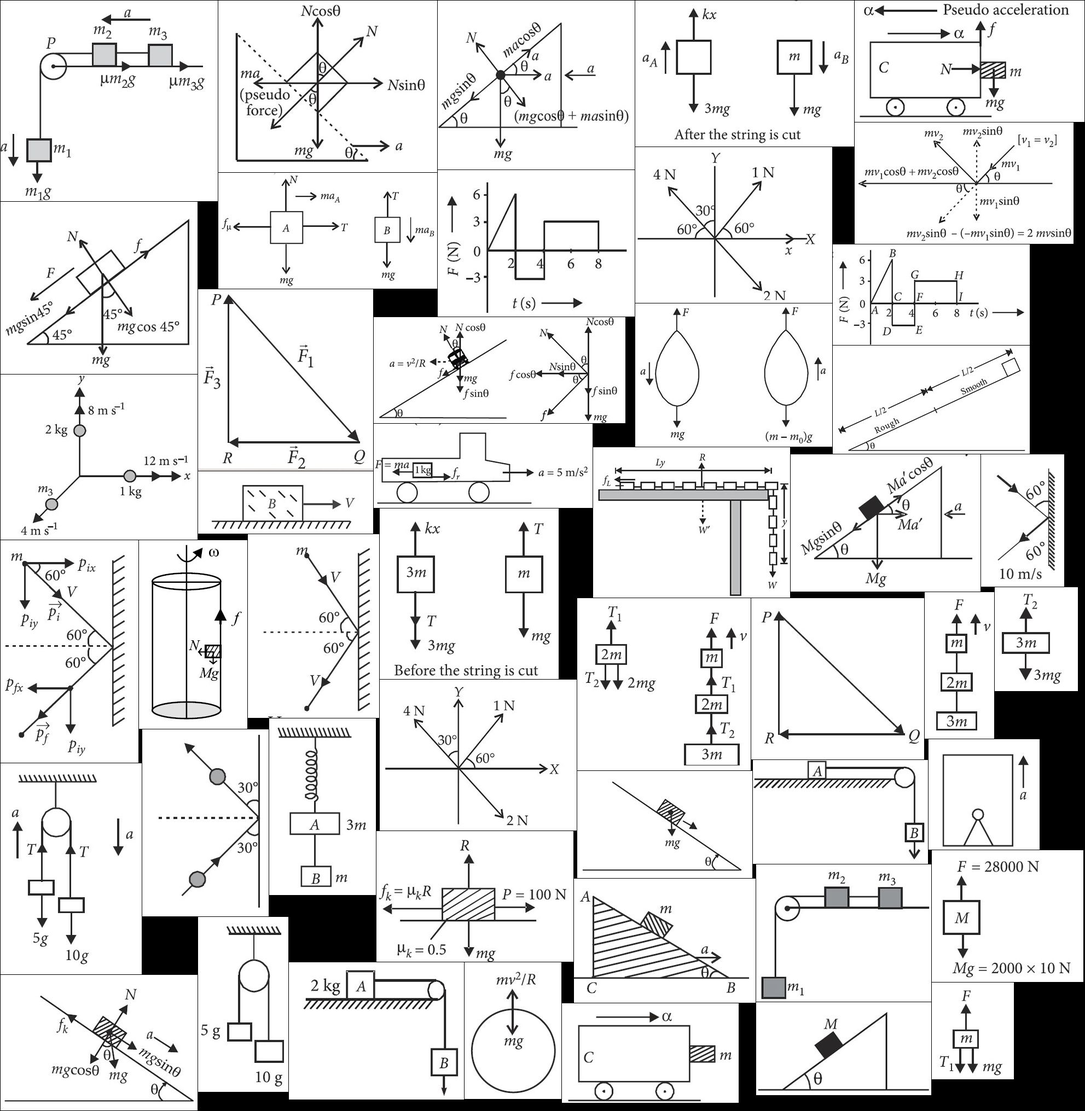
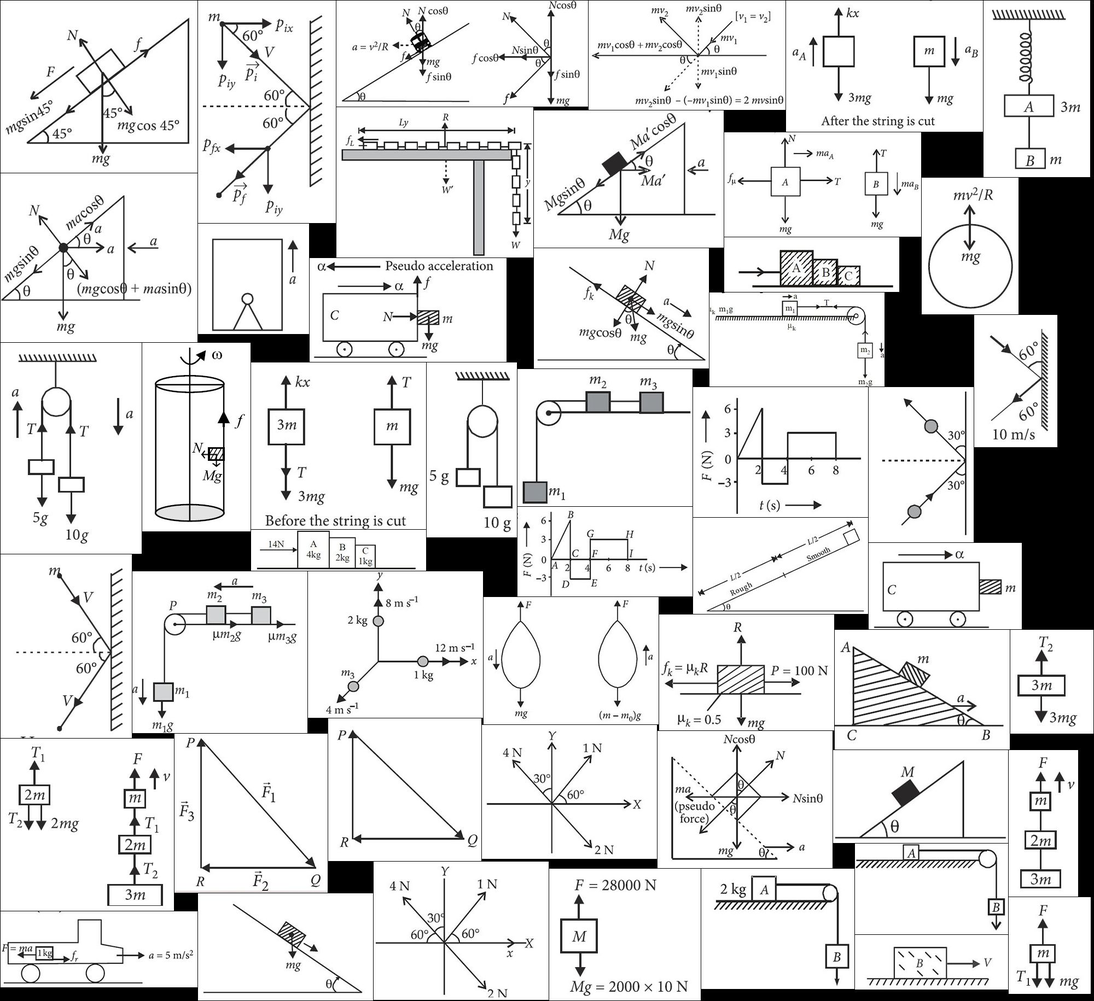
Added images.

Changed region(s): [[0.0, 0.0, 1.0, 1.0], [0.5537, 0.6849, 0.5845, 0.716]]

diff --git a/img/medical/neet/phchap/physics_ch_4.css b/img/medical/neet/phchap/physics_ch_4.css
@@ -7,146 +7,155 @@ Responsive: <div class="yourspritesname"></div>
 */
 
 
+.nt_ph_laws_motion_10 {max-width:320px; max-height:100px; }
+.nt_ph_laws_motion_10::after {content: '\00a0';display: inline-block; width:320px; height:100px; background-position: 78.80952380952381% 25.072212593876372%;background-size: 625% 1831%;background-image: url(physics_ch_4.jpg);padding: 0; }
+div.nt_ph_laws_motion_10::after {max-width:320px; width:100%;height:0;padding: 0 0 31.25% 0;}
+.nt_ph_laws_motion_10_sol {max-width:320px; max-height:75px; }
+.nt_ph_laws_motion_10_sol::after {content: '\00a0';display: inline-block; width:320px; height:75px; background-position: 27.321428571428573% 55.182232346241456%;background-size: 625% 2441.3333333333335%;background-image: url(physics_ch_4.jpg);padding: 0; }
+div.nt_ph_laws_motion_10_sol::after {max-width:320px; width:100%;height:0;padding: 0 0 23.4375% 0;}
 .nt_ph_laws_motion_11 {max-width:320px; max-height:196px; }
-.nt_ph_laws_motion_11::after {content: '\00a0';display: inline-block; width:320px; height:196px; background-position: 63.43956704750451% 76.79738562091504%;background-size: 619.6875% 1036.734693877551%;background-image: url(physics_ch_4.jpg);padding: 0; }
+.nt_ph_laws_motion_11::after {content: '\00a0';display: inline-block; width:320px; height:196px; background-position: 21.547619047619047% 99.93883792048929%;background-size: 625% 934.1836734693877%;background-image: url(physics_ch_4.jpg);padding: 0; }
 div.nt_ph_laws_motion_11::after {max-width:320px; width:100%;height:0;padding: 0 0 61.25% 0;}
-.nt_ph_laws_motion_11_sol {max-width:360px; max-height:248px; }
-.nt_ph_laws_motion_11_sol::after {content: '\00a0';display: inline-block; width:360px; height:248px; background-position: 0.061614294516327786% 99.9439461883408%;background-size: 550.8333333333334% 819.3548387096774%;background-image: url(physics_ch_4.jpg);padding: 0; }
-div.nt_ph_laws_motion_11_sol::after {max-width:360px; width:100%;height:0;padding: 0 0 68.88888888888889% 0;}
+.nt_ph_laws_motion_11_sol {max-width:320px; max-height:220px; }
+.nt_ph_laws_motion_11_sol::after {content: '\00a0';display: inline-block; width:320px; height:220px; background-position: 58.095238095238095% 28.181253879577902%;background-size: 625% 832.2727272727273%;background-image: url(physics_ch_4.jpg);padding: 0; }
+div.nt_ph_laws_motion_11_sol::after {max-width:320px; width:100%;height:0;padding: 0 0 68.75% 0;}
+.nt_ph_laws_motion_12_sol {max-width:320px; max-height:172px; }
+.nt_ph_laws_motion_12_sol::after {content: '\00a0';display: inline-block; width:320px; height:172px; background-position: 77.20238095238095% 32.248342374924654%;background-size: 625% 1064.5348837209303%;background-image: url(physics_ch_4.jpg);padding: 0; }
+div.nt_ph_laws_motion_12_sol::after {max-width:320px; width:100%;height:0;padding: 0 0 53.75% 0;}
 .nt_ph_laws_motion_13 {max-width:320px; max-height:251px; }
-.nt_ph_laws_motion_13::after {content: '\00a0';display: inline-block; width:320px; height:251px; background-position: 83.1028262176789% 88.77035373385738%;background-size: 619.6875% 809.5617529880478%;background-image: url(physics_ch_4.jpg);padding: 0; }
+.nt_ph_laws_motion_13::after {content: '\00a0';display: inline-block; width:320px; height:251px; background-position: 56.30952380952381% 42.721518987341774%;background-size: 625% 729.4820717131474%;background-image: url(physics_ch_4.jpg);padding: 0; }
 div.nt_ph_laws_motion_13::after {max-width:320px; width:100%;height:0;padding: 0 0 78.4375% 0;}
-.nt_ph_laws_motion_13_sol {max-width:397px; max-height:367px; }
-.nt_ph_laws_motion_13_sol::after {content: '\00a0';display: inline-block; width:397px; height:367px; background-position: 0.06305170239596469% 0.06006006006006006%;background-size: 499.4962216624685% 553.6784741144414%;background-image: url(physics_ch_4.jpg);padding: 0; }
-div.nt_ph_laws_motion_13_sol::after {max-width:397px; width:100%;height:0;padding: 0 0 92.44332493702771% 0;}
-.nt_ph_laws_motion_14 {max-width:360px; max-height:268px; }
-.nt_ph_laws_motion_14::after {content: '\00a0';display: inline-block; width:360px; height:268px; background-position: 49.291435613062234% 17.630385487528343%;background-size: 550.8333333333334% 758.2089552238806%;background-image: url(physics_ch_4.jpg);padding: 0; }
-div.nt_ph_laws_motion_14::after {max-width:360px; width:100%;height:0;padding: 0 0 74.44444444444444% 0;}
-.nt_ph_laws_motion_14_sol {max-width:360px; max-height:184px; }
-.nt_ph_laws_motion_14_sol::after {content: '\00a0';display: inline-block; width:360px; height:184px; background-position: 93.7769562538509% 24.18831168831169%;background-size: 550.8333333333334% 1104.3478260869565%;background-image: url(physics_ch_4.jpg);padding: 0; }
-div.nt_ph_laws_motion_14_sol::after {max-width:360px; width:100%;height:0;padding: 0 0 51.111111111111114% 0;}
-.nt_ph_laws_motion_15_sol {max-width:360px; max-height:262px; }
-.nt_ph_laws_motion_15_sol::after {content: '\00a0';display: inline-block; width:360px; height:262px; background-position: 71.53419593345656% 31.35593220338983%;background-size: 550.8333333333334% 775.5725190839695%;background-image: url(physics_ch_4.jpg);padding: 0; }
-div.nt_ph_laws_motion_15_sol::after {max-width:360px; width:100%;height:0;padding: 0 0 72.77777777777777% 0;}
+.nt_ph_laws_motion_13_sol {max-width:320px; max-height:296px; }
+.nt_ph_laws_motion_13_sol::after {content: '\00a0';display: inline-block; width:320px; height:296px; background-position: 14.404761904761905% 68.07817589576547%;background-size: 625% 618.581081081081%;background-image: url(physics_ch_4.jpg);padding: 0; }
+div.nt_ph_laws_motion_13_sol::after {max-width:320px; width:100%;height:0;padding: 0 0 92.5% 0;}
+.nt_ph_laws_motion_14 {max-width:320px; max-height:238px; }
+.nt_ph_laws_motion_14::after {content: '\00a0';display: inline-block; width:320px; height:238px; background-position: 75.41666666666667% 44.44444444444444%;background-size: 625% 769.3277310924369%;background-image: url(physics_ch_4.jpg);padding: 0; }
+div.nt_ph_laws_motion_14::after {max-width:320px; width:100%;height:0;padding: 0 0 74.375% 0;}
+.nt_ph_laws_motion_14_sol {max-width:320px; max-height:164px; }
+.nt_ph_laws_motion_14_sol::after {content: '\00a0';display: inline-block; width:320px; height:164px; background-position: 56.30952380952381% 55.60887822435513%;background-size: 625% 1116.4634146341464%;background-image: url(physics_ch_4.jpg);padding: 0; }
+div.nt_ph_laws_motion_14_sol::after {max-width:320px; width:100%;height:0;padding: 0 0 51.25% 0;}
+.nt_ph_laws_motion_15_sol {max-width:320px; max-height:233px; }
+.nt_ph_laws_motion_15_sol::after {content: '\00a0';display: inline-block; width:320px; height:233px; background-position: 52.61904761904762% 68.33541927409262%;background-size: 625% 785.8369098712446%;background-image: url(physics_ch_4.jpg);padding: 0; }
+div.nt_ph_laws_motion_15_sol::after {max-width:320px; width:100%;height:0;padding: 0 0 72.8125% 0;}
 .nt_ph_laws_motion_16 {max-width:127px; max-height:268px; }
-.nt_ph_laws_motion_16::after {content: '\00a0';display: inline-block; width:127px; height:268px; background-position: 91.05603448275862% 61.394557823129254%;background-size: 1561.4173228346456% 758.2089552238806%;background-image: url(physics_ch_4.jpg);padding: 0; }
+.nt_ph_laws_motion_16::after {content: '\00a0';display: inline-block; width:127px; height:268px; background-position: 98.45168179391351% 87.77991042866283%;background-size: 1574.8031496062993% 683.2089552238806%;background-image: url(physics_ch_4.jpg);padding: 0; }
 div.nt_ph_laws_motion_16::after {max-width:127px; width:100%;height:0;padding: 0 0 211.0236220472441% 0;}
 .nt_ph_laws_motion_16_sol {max-width:150px; max-height:177px; }
-.nt_ph_laws_motion_16_sol::after {content: '\00a0';display: inline-block; width:150px; height:177px; background-position: 92.90780141843972% 96.8733153638814%;background-size: 1322% 1148.0225988700565%;background-image: url(physics_ch_4.jpg);padding: 0; }
+.nt_ph_laws_motion_16_sol::after {content: '\00a0';display: inline-block; width:150px; height:177px; background-position: 99.67567567567568% 99.21402660217655%;background-size: 1333.3333333333333% 1034.4632768361582%;background-image: url(physics_ch_4.jpg);padding: 0; }
 div.nt_ph_laws_motion_16_sol::after {max-width:150px; width:100%;height:0;padding: 0 0 118% 0;}
 .nt_ph_laws_motion_16_sol_b {max-width:317px; max-height:315px; }
-.nt_ph_laws_motion_16_sol_b::after {content: '\00a0';display: inline-block; width:317px; height:315px; background-position: 63.32533013205282% 63.71578334304019%;background-size: 625.5520504731861% 645.0793650793651%;background-image: url(physics_ch_4.jpg);padding: 0; }
+.nt_ph_laws_motion_16_sol_b::after {content: '\00a0';display: inline-block; width:317px; height:315px; background-position: 0.059417706476530004% 89.11609498680738%;background-size: 630.9148264984227% 581.2698412698413%;background-image: url(physics_ch_4.jpg);padding: 0; }
 div.nt_ph_laws_motion_16_sol_b::after {max-width:317px; width:100%;height:0;padding: 0 0 99.36908517350157% 0;}
 .nt_ph_laws_motion_16_sol_c {max-width:152px; max-height:190px; }
-.nt_ph_laws_motion_16_sol_c::after {content: '\00a0';display: inline-block; width:152px; height:190px; background-position: 99.29000546149645% 58.306188925081436%;background-size: 1304.6052631578948% 1069.4736842105262%;background-image: url(physics_ch_4.jpg);padding: 0; }
+.nt_ph_laws_motion_16_sol_c::after {content: '\00a0';display: inline-block; width:152px; height:190px; background-position: 99.94588744588745% 70.20109689213893%;background-size: 1315.7894736842106% 963.6842105263158%;background-image: url(physics_ch_4.jpg);padding: 0; }
 div.nt_ph_laws_motion_16_sol_c::after {max-width:152px; width:100%;height:0;padding: 0 0 125% 0;}
-.nt_ph_laws_motion_17_sol_ {max-width:360px; max-height:302px; }
-.nt_ph_laws_motion_17_sol_::after {content: '\00a0';display: inline-block; width:360px; height:302px; background-position: 0.061614294516327786% 39.59537572254335%;background-size: 550.8333333333334% 672.8476821192053%;background-image: url(physics_ch_4.jpg);padding: 0; }
-div.nt_ph_laws_motion_17_sol_::after {max-width:360px; width:100%;height:0;padding: 0 0 83.88888888888889% 0;}
-.nt_ph_laws_motion_18_sol {max-width:360px; max-height:198px; }
-.nt_ph_laws_motion_18_sol::after {content: '\00a0';display: inline-block; width:360px; height:198px; background-position: 93.7769562538509% 34.46019629225736%;background-size: 550.8333333333334% 1026.2626262626263%;background-image: url(physics_ch_4.jpg);padding: 0; }
-div.nt_ph_laws_motion_18_sol::after {max-width:360px; width:100%;height:0;padding: 0 0 55% 0;}
+.nt_ph_laws_motion_17_sol_ {max-width:320px; max-height:268px; }
+.nt_ph_laws_motion_17_sol_::after {content: '\00a0';display: inline-block; width:320px; height:268px; background-position: 33.51190476190476% 66.85860524632118%;background-size: 625% 683.2089552238806%;background-image: url(physics_ch_4.jpg);padding: 0; }
+div.nt_ph_laws_motion_17_sol_::after {max-width:320px; width:100%;height:0;padding: 0 0 83.75% 0;}
+.nt_ph_laws_motion_18_sol {max-width:320px; max-height:176px; }
+.nt_ph_laws_motion_18_sol::after {content: '\00a0';display: inline-block; width:320px; height:176px; background-position: 75.41666666666667% 57.220543806646525%;background-size: 625% 1040.340909090909%;background-image: url(physics_ch_4.jpg);padding: 0; }
+div.nt_ph_laws_motion_18_sol::after {max-width:320px; width:100%;height:0;padding: 0 0 55% 0;}
 .nt_ph_laws_motion_1_sol {max-width:198px; max-height:345px; }
-.nt_ph_laws_motion_1_sol::after {content: '\00a0';display: inline-block; width:198px; height:345px; background-position: 14.2296918767507% 58.56550088915234%;background-size: 1001.5151515151515% 588.9855072463768%;background-image: url(physics_ch_4.jpg);padding: 0; }
+.nt_ph_laws_motion_1_sol::after {content: '\00a0';display: inline-block; width:198px; height:345px; background-position: 14.428412874583795% 42.193808882907135%;background-size: 1010.10101010101% 530.7246376811594%;background-image: url(physics_ch_4.jpg);padding: 0; }
 div.nt_ph_laws_motion_1_sol::after {max-width:198px; width:100%;height:0;padding: 0 0 174.24242424242425% 0;}
-.nt_ph_laws_motion_2 {max-width:316px; max-height:295px; }
-.nt_ph_laws_motion_2::after {content: '\00a0';display: inline-block; width:316px; height:295px; background-position: 82.36352729454109% 62.98215313759355%;background-size: 627.5316455696203% 688.8135593220339%;background-image: url(physics_ch_4.jpg);padding: 0; }
-div.nt_ph_laws_motion_2::after {max-width:316px; width:100%;height:0;padding: 0 0 93.35443037974683% 0;}
+.nt_ph_laws_motion_2 {max-width:280px; max-height:261px; }
+.nt_ph_laws_motion_2::after {content: '\00a0';display: inline-block; width:280px; height:261px; background-position: 34.883720930232556% 83.69426751592357%;background-size: 714.2857142857143% 701.5325670498084%;background-image: url(physics_ch_4.jpg);padding: 0; }
+div.nt_ph_laws_motion_2::after {max-width:280px; width:100%;height:0;padding: 0 0 93.21428571428571% 0;}
 .nt_ph_laws_motion_24_sol {max-width:203px; max-height:202px; }
-.nt_ph_laws_motion_24_sol::after {content: '\00a0';display: inline-block; width:203px; height:202px; background-position: 95.33707865168539% 73.87978142076503%;background-size: 976.8472906403941% 1005.940594059406%;background-image: url(physics_ch_4.jpg);padding: 0; }
+.nt_ph_laws_motion_24_sol::after {content: '\00a0';display: inline-block; width:203px; height:202px; background-position: 20.144685587089594% 25.10742786985881%;background-size: 985.2216748768473% 906.4356435643564%;background-image: url(physics_ch_4.jpg);padding: 0; }
 div.nt_ph_laws_motion_24_sol::after {max-width:203px; width:100%;height:0;padding: 0 0 99.50738916256158% 0;}
-.nt_ph_laws_motion_27 {max-width:323px; max-height:182px; }
-.nt_ph_laws_motion_27::after {content: '\00a0';display: inline-block; width:323px; height:182px; background-position: 61.86746987951807% 99.1891891891892%;background-size: 613.9318885448916% 1116.4835164835165%;background-image: url(physics_ch_4.jpg);padding: 0; }
-div.nt_ph_laws_motion_27::after {max-width:323px; width:100%;height:0;padding: 0 0 56.34674922600619% 0;}
-.nt_ph_laws_motion_27_sol {max-width:420px; max-height:222px; }
-.nt_ph_laws_motion_27_sol::after {content: '\00a0';display: inline-block; width:420px; height:222px; background-position: 99.9360204734485% 0.055248618784530384%;background-size: 472.14285714285717% 915.3153153153153%;background-image: url(physics_ch_4.jpg);padding: 0; }
-div.nt_ph_laws_motion_27_sol::after {max-width:420px; width:100%;height:0;padding: 0 0 52.857142857142854% 0;}
+.nt_ph_laws_motion_27 {max-width:280px; max-height:158px; }
+.nt_ph_laws_motion_27::after {content: '\00a0';display: inline-block; width:280px; height:158px; background-position: 92.32558139534883% 59.35445307830245%;background-size: 714.2857142857143% 1158.860759493671%;background-image: url(physics_ch_4.jpg);padding: 0; }
+div.nt_ph_laws_motion_27::after {max-width:280px; width:100%;height:0;padding: 0 0 56.42857142857143% 0;}
+.nt_ph_laws_motion_27_sol {max-width:360px; max-height:190px; }
+.nt_ph_laws_motion_27_sol::after {content: '\00a0';display: inline-block; width:360px; height:190px; background-position: 34.51219512195122% 28.762949421084706%;background-size: 555.5555555555555% 963.6842105263158%;background-image: url(physics_ch_4.jpg);padding: 0; }
+div.nt_ph_laws_motion_27_sol::after {max-width:360px; width:100%;height:0;padding: 0 0 52.77777777777778% 0;}
 .nt_ph_laws_motion_28_sol {max-width:277px; max-height:241px; }
-.nt_ph_laws_motion_28_sol::after {content: '\00a0';display: inline-block; width:277px; height:241px; background-position: 99.82415005861665% 86.82300390843105%;background-size: 715.884476534296% 843.1535269709543%;background-image: url(physics_ch_4.jpg);padding: 0; }
+.nt_ph_laws_motion_28_sol::after {content: '\00a0';display: inline-block; width:277px; height:241px; background-position: 58.270458502611724% 99.937106918239%;background-size: 722.0216606498195% 759.7510373443984%;background-image: url(physics_ch_4.jpg);padding: 0; }
 div.nt_ph_laws_motion_28_sol::after {max-width:277px; width:100%;height:0;padding: 0 0 87.00361010830325% 0;}
-.nt_ph_laws_motion_2_sol {max-width:320px; max-height:332px; }
-.nt_ph_laws_motion_2_sol::after {content: '\00a0';display: inline-block; width:320px; height:332px; background-position: 21.767889356584487% 31.11764705882353%;background-size: 619.6875% 612.0481927710844%;background-image: url(physics_ch_4.jpg);padding: 0; }
-div.nt_ph_laws_motion_2_sol::after {max-width:320px; width:100%;height:0;padding: 0 0 103.75% 0;}
+.nt_ph_laws_motion_2_sol {max-width:280px; max-height:291px; }
+.nt_ph_laws_motion_2_sol::after {content: '\00a0';display: inline-block; width:280px; height:291px; background-position: 18.546511627906977% 87.14285714285714%;background-size: 714.2857142857143% 629.2096219931271%;background-image: url(physics_ch_4.jpg);padding: 0; }
+div.nt_ph_laws_motion_2_sol::after {max-width:280px; width:100%;height:0;padding: 0 0 103.92857142857143% 0;}
 .nt_ph_laws_motion_30_sol {max-width:177px; max-height:250px; }
-.nt_ph_laws_motion_30_sol::after {content: '\00a0';display: inline-block; width:177px; height:250px; background-position: 47.009966777408636% 98.76543209876543%;background-size: 1120.3389830508474% 812.8%;background-image: url(physics_ch_4.jpg);padding: 0; }
+.nt_ph_laws_motion_30_sol::after {content: '\00a0';display: inline-block; width:177px; height:250px; background-position: 92.43006034009873% 20.55660974067046%;background-size: 1129.9435028248588% 732.4%;background-image: url(physics_ch_4.jpg);padding: 0; }
 div.nt_ph_laws_motion_30_sol::after {max-width:177px; width:100%;height:0;padding: 0 0 141.24293785310735% 0;}
-.nt_ph_laws_motion_31 {max-width:360px; max-height:276px; }
-.nt_ph_laws_motion_31::after {content: '\00a0';display: inline-block; width:360px; height:276px; background-position: 42.76032039433149% 70.78587699316628%;background-size: 550.8333333333334% 736.231884057971%;background-image: url(physics_ch_4.jpg);padding: 0; }
-div.nt_ph_laws_motion_31::after {max-width:360px; width:100%;height:0;padding: 0 0 76.66666666666667% 0;}
-.nt_ph_laws_motion_31_sol {max-width:360px; max-height:285px; }
-.nt_ph_laws_motion_31_sol::after {content: '\00a0';display: inline-block; width:360px; height:285px; background-position: 71.53419593345656% 15.397824842587292%;background-size: 550.8333333333334% 712.9824561403509%;background-image: url(physics_ch_4.jpg);padding: 0; }
-div.nt_ph_laws_motion_31_sol::after {max-width:360px; width:100%;height:0;padding: 0 0 79.16666666666667% 0;}
-.nt_ph_laws_motion_33 {max-width:320px; max-height:114px; }
-.nt_ph_laws_motion_33::after {content: '\00a0';display: inline-block; width:320px; height:114px; background-position: 21.767889356584487% 44.94264859228363%;background-size: 619.6875% 1782.4561403508771%;background-image: url(physics_ch_4.jpg);padding: 0; }
-div.nt_ph_laws_motion_33::after {max-width:320px; width:100%;height:0;padding: 0 0 35.625% 0;}
-.nt_ph_laws_motion_34_sol {max-width:231px; max-height:342px; }
-.nt_ph_laws_motion_34_sol::after {content: '\00a0';display: inline-block; width:231px; height:342px; background-position: 14.840182648401827% 78.93491124260355%;background-size: 858.4415584415584% 594.1520467836257%;background-image: url(physics_ch_4.jpg);padding: 0; }
-div.nt_ph_laws_motion_34_sol::after {max-width:231px; width:100%;height:0;padding: 0 0 148.05194805194805% 0;}
+.nt_ph_laws_motion_31 {max-width:320px; max-height:245px; }
+.nt_ph_laws_motion_31::after {content: '\00a0';display: inline-block; width:320px; height:245px; background-position: 52.44047619047619% 83.60655737704919%;background-size: 625% 747.3469387755102%;background-image: url(physics_ch_4.jpg);padding: 0; }
+div.nt_ph_laws_motion_31::after {max-width:320px; width:100%;height:0;padding: 0 0 76.5625% 0;}
+.nt_ph_laws_motion_31_sol {max-width:320px; max-height:253px; }
+.nt_ph_laws_motion_31_sol::after {content: '\00a0';display: inline-block; width:320px; height:253px; background-position: 40.654761904761905% 99.87325728770595%;background-size: 625% 723.7154150197629%;background-image: url(physics_ch_4.jpg);padding: 0; }
+div.nt_ph_laws_motion_31_sol::after {max-width:320px; width:100%;height:0;padding: 0 0 79.0625% 0;}
+.nt_ph_laws_motion_33 {max-width:280px; max-height:100px; }
+.nt_ph_laws_motion_33::after {content: '\00a0';display: inline-block; width:280px; height:100px; background-position: 90.87209302325581% 98.78682842287695%;background-size: 714.2857142857143% 1831%;background-image: url(physics_ch_4.jpg);padding: 0; }
+div.nt_ph_laws_motion_33::after {max-width:280px; width:100%;height:0;padding: 0 0 35.714285714285715% 0;}
+.nt_ph_laws_motion_34_sol {max-width:192px; max-height:284px; }
+.nt_ph_laws_motion_34_sol::after {content: '\00a0';display: inline-block; width:192px; height:284px; background-position: 87.83185840707965% 45.76599870717518%;background-size: 1041.6666666666667% 644.7183098591549%;background-image: url(physics_ch_4.jpg);padding: 0; }
+div.nt_ph_laws_motion_34_sol::after {max-width:192px; width:100%;height:0;padding: 0 0 147.91666666666666% 0;}
 .nt_ph_laws_motion_35_sol {max-width:360px; max-height:309px; }
-.nt_ph_laws_motion_35_sol::after {content: '\00a0';display: inline-block; width:360px; height:309px; background-position: 49.291435613062234% 0.05803830528148578%;background-size: 550.8333333333334% 657.6051779935275%;background-image: url(physics_ch_4.jpg);padding: 0; }
+.nt_ph_laws_motion_35_sol::after {content: '\00a0';display: inline-block; width:360px; height:309px; background-position: 0.06097560975609756% 20.82785808147175%;background-size: 555.5555555555555% 592.5566343042071%;background-image: url(physics_ch_4.jpg);padding: 0; }
 div.nt_ph_laws_motion_35_sol::after {max-width:360px; width:100%;height:0;padding: 0 0 85.83333333333333% 0;}
-.nt_ph_laws_motion_36 {max-width:320px; max-height:251px; }
-.nt_ph_laws_motion_36::after {content: '\00a0';display: inline-block; width:320px; height:251px; background-position: 31.7498496692724% 98.82088714205503%;background-size: 619.6875% 809.5617529880478%;background-image: url(physics_ch_4.jpg);padding: 0; }
-div.nt_ph_laws_motion_36::after {max-width:320px; width:100%;height:0;padding: 0 0 78.4375% 0;}
-.nt_ph_laws_motion_36_sol {max-width:320px; max-height:190px; }
-.nt_ph_laws_motion_36_sol::after {content: '\00a0';display: inline-block; width:320px; height:190px; background-position: 82.74203247143716% 75.46145494028231%;background-size: 619.6875% 1069.4736842105262%;background-image: url(physics_ch_4.jpg);padding: 0; }
-div.nt_ph_laws_motion_36_sol::after {max-width:320px; width:100%;height:0;padding: 0 0 59.375% 0;}
-.nt_ph_laws_motion_36_sol_a {max-width:400px; max-height:212px; }
-.nt_ph_laws_motion_36_sol_a::after {content: '\00a0';display: inline-block; width:400px; height:212px; background-position: 25.205306380290587% 17.36263736263736%;background-size: 495.75% 958.4905660377359%;background-image: url(physics_ch_4.jpg);padding: 0; }
-div.nt_ph_laws_motion_36_sol_a::after {max-width:400px; width:100%;height:0;padding: 0 0 53% 0;}
-.nt_ph_laws_motion_40_sol {max-width:360px; max-height:239px; }
-.nt_ph_laws_motion_40_sol::after {content: '\00a0';display: inline-block; width:360px; height:239px; background-position: 42.39063462723352% 84.77412158393753%;background-size: 550.8333333333334% 850.2092050209205%;background-image: url(physics_ch_4.jpg);padding: 0; }
-div.nt_ph_laws_motion_40_sol::after {max-width:360px; width:100%;height:0;padding: 0 0 66.38888888888889% 0;}
-.nt_ph_laws_motion_42_sol {max-width:400px; max-height:154px; }
-.nt_ph_laws_motion_42_sol::after {content: '\00a0';display: inline-block; width:400px; height:154px; background-position: 43.145925457991154% 41.267305644302446%;background-size: 495.75% 1319.4805194805194%;background-image: url(physics_ch_4.jpg);padding: 0; }
-div.nt_ph_laws_motion_42_sol::after {max-width:400px; width:100%;height:0;padding: 0 0 38.5% 0;}
+.nt_ph_laws_motion_36 {max-width:280px; max-height:220px; }
+.nt_ph_laws_motion_36::after {content: '\00a0';display: inline-block; width:280px; height:220px; background-position: 74.53488372093024% 98.63438857852266%;background-size: 714.2857142857143% 832.2727272727273%;background-image: url(physics_ch_4.jpg);padding: 0; }
+div.nt_ph_laws_motion_36::after {max-width:280px; width:100%;height:0;padding: 0 0 78.57142857142857% 0;}
+.nt_ph_laws_motion_36_sol {max-width:280px; max-height:166px; }
+.nt_ph_laws_motion_36_sol::after {content: '\00a0';display: inline-block; width:280px; height:166px; background-position: 90.87209302325581% 92.67267267267268%;background-size: 714.2857142857143% 1103.012048192771%;background-image: url(physics_ch_4.jpg);padding: 0; }
+div.nt_ph_laws_motion_36_sol::after {max-width:280px; width:100%;height:0;padding: 0 0 59.285714285714285% 0;}
+.nt_ph_laws_motion_36_sol_a {max-width:360px; max-height:191px; }
+.nt_ph_laws_motion_36_sol_a::after {content: '\00a0';display: inline-block; width:360px; height:191px; background-position: 80.73170731707317% 14.75609756097561%;background-size: 555.5555555555555% 958.6387434554974%;background-image: url(physics_ch_4.jpg);padding: 0; }
+div.nt_ph_laws_motion_36_sol_a::after {max-width:360px; width:100%;height:0;padding: 0 0 53.05555555555556% 0;}
+.nt_ph_laws_motion_40_sol {max-width:320px; max-height:212px; }
+.nt_ph_laws_motion_40_sol::after {content: '\00a0';display: inline-block; width:320px; height:212px; background-position: 71.72619047619048% 69.42557134033353%;background-size: 625% 863.6792452830189%;background-image: url(physics_ch_4.jpg);padding: 0; }
+div.nt_ph_laws_motion_40_sol::after {max-width:320px; width:100%;height:0;padding: 0 0 66.25% 0;}
+.nt_ph_laws_motion_42_sol {max-width:360px; max-height:139px; }
+.nt_ph_laws_motion_42_sol::after {content: '\00a0';display: inline-block; width:360px; height:139px; background-position: 0.06097560975609756% 98.5224586288416%;background-size: 555.5555555555555% 1317.2661870503598%;background-image: url(physics_ch_4.jpg);padding: 0; }
+div.nt_ph_laws_motion_42_sol::after {max-width:360px; width:100%;height:0;padding: 0 0 38.611111111111114% 0;}
 .nt_ph_laws_motion_45 {max-width:152px; max-height:242px; }
-.nt_ph_laws_motion_45::after {content: '\00a0';display: inline-block; width:152px; height:242px; background-position: 97.92463134898962% 46.42458100558659%;background-size: 1304.6052631578948% 839.6694214876034%;background-image: url(physics_ch_4.jpg);padding: 0; }
+.nt_ph_laws_motion_45::after {content: '\00a0';display: inline-block; width:152px; height:242px; background-position: 96.37445887445888% 36.24921334172436%;background-size: 1315.7894736842106% 756.6115702479339%;background-image: url(physics_ch_4.jpg);padding: 0; }
 div.nt_ph_laws_motion_45::after {max-width:152px; width:100%;height:0;padding: 0 0 159.21052631578948% 0;}
-.nt_ph_laws_motion_45_sol {max-width:400px; max-height:222px; }
-.nt_ph_laws_motion_45_sol::after {content: '\00a0';display: inline-block; width:400px; height:222px; background-position: 98.67340492735313% 12.375690607734807%;background-size: 495.75% 915.3153153153153%;background-image: url(physics_ch_4.jpg);padding: 0; }
-div.nt_ph_laws_motion_45_sol::after {max-width:400px; width:100%;height:0;padding: 0 0 55.5% 0;}
+.nt_ph_laws_motion_45_sol {max-width:360px; max-height:200px; }
+.nt_ph_laws_motion_45_sol::after {content: '\00a0';display: inline-block; width:360px; height:200px; background-position: 65.60975609756098% 0.061312078479460456%;background-size: 555.5555555555555% 915.5%;background-image: url(physics_ch_4.jpg);padding: 0; }
+div.nt_ph_laws_motion_45_sol::after {max-width:360px; width:100%;height:0;padding: 0 0 55.55555555555556% 0;}
 .nt_ph_laws_motion_46 {max-width:165px; max-height:320px; }
-.nt_ph_laws_motion_46::after {content: '\00a0';display: inline-block; width:165px; height:320px; background-position: 19.91199119911991% 97.95560747663552%;background-size: 1201.8181818181818% 635%;background-image: url(physics_ch_4.jpg);padding: 0; }
+.nt_ph_laws_motion_46::after {content: '\00a0';display: inline-block; width:165px; height:320px; background-position: 42.50681198910082% 43.87822634017207%;background-size: 1212.121212121212% 572.1875%;background-image: url(physics_ch_4.jpg);padding: 0; }
 div.nt_ph_laws_motion_46::after {max-width:165px; width:100%;height:0;padding: 0 0 193.93939393939394% 0;}
 .nt_ph_laws_motion_46_sol {max-width:258px; max-height:386px; }
-.nt_ph_laws_motion_46_sol::after {content: '\00a0';display: inline-block; width:258px; height:386px; background-position: 0.057971014492753624% 84.81166464155528%;background-size: 768.6046511627907% 526.4248704663213%;background-image: url(physics_ch_4.jpg);padding: 0; }
+.nt_ph_laws_motion_46_sol::after {content: '\00a0';display: inline-block; width:258px; height:386px; background-position: 0.0574052812858783% 43.391003460207614%;background-size: 775.1937984496124% 474.3523316062176%;background-image: url(physics_ch_4.jpg);padding: 0; }
 div.nt_ph_laws_motion_46_sol::after {max-width:258px; width:100%;height:0;padding: 0 0 149.6124031007752% 0;}
-.nt_ph_laws_motion_5 {max-width:332px; max-height:227px; }
-.nt_ph_laws_motion_5::after {content: '\00a0';display: inline-block; width:332px; height:227px; background-position: 63.53725015142338% 89.03047091412742%;background-size: 597.289156626506% 895.1541850220265%;background-image: url(physics_ch_4.jpg);padding: 0; }
-div.nt_ph_laws_motion_5::after {max-width:332px; width:100%;height:0;padding: 0 0 68.37349397590361% 0;}
+.nt_ph_laws_motion_5 {max-width:320px; max-height:219px; }
+.nt_ph_laws_motion_5::after {content: '\00a0';display: inline-block; width:320px; height:219px; background-position: 90.83333333333333% 71.46401985111663%;background-size: 625% 836.0730593607306%;background-image: url(physics_ch_4.jpg);padding: 0; }
+div.nt_ph_laws_motion_5::after {max-width:320px; width:100%;height:0;padding: 0 0 68.4375% 0;}
 .nt_ph_laws_motion_50 {max-width:320px; max-height:170px; }
-.nt_ph_laws_motion_50::after {content: '\00a0';display: inline-block; width:320px; height:170px; background-position: 83.1028262176789% 98.44253490870032%;background-size: 619.6875% 1195.2941176470588%;background-image: url(physics_ch_4.jpg);padding: 0; }
+.nt_ph_laws_motion_50::after {content: '\00a0';display: inline-block; width:320px; height:170px; background-position: 90.6547619047619% 82.60084286574353%;background-size: 625% 1077.0588235294117%;background-image: url(physics_ch_4.jpg);padding: 0; }
 div.nt_ph_laws_motion_50::after {max-width:320px; width:100%;height:0;padding: 0 0 53.125% 0;}
 .nt_ph_laws_motion_50_sol {max-width:347px; max-height:251px; }
-.nt_ph_laws_motion_50_sol::after {content: '\00a0';display: inline-block; width:347px; height:251px; background-position: 88.32518337408312% 46.659180235822575%;background-size: 571.4697406340058% 809.5617529880478%;background-image: url(physics_ch_4.jpg);padding: 0; }
+.nt_ph_laws_motion_50_sol::after {content: '\00a0';display: inline-block; width:347px; height:251px; background-position: 59.04416212946158% 12.784810126582279%;background-size: 576.3688760806916% 729.4820717131474%;background-image: url(physics_ch_4.jpg);padding: 0; }
 div.nt_ph_laws_motion_50_sol::after {max-width:347px; width:100%;height:0;padding: 0 0 72.3342939481268% 0;}
-.nt_ph_laws_motion_5_sol {max-width:400px; max-height:314px; }
-.nt_ph_laws_motion_5_sol::after {content: '\00a0';display: inline-block; width:400px; height:314px; background-position: 25.205306380290587% 0.05820721769499418%;background-size: 495.75% 647.1337579617834%;background-image: url(physics_ch_4.jpg);padding: 0; }
-div.nt_ph_laws_motion_5_sol::after {max-width:400px; width:100%;height:0;padding: 0 0 78.5% 0;}
+.nt_ph_laws_motion_5_sol {max-width:320px; max-height:251px; }
+.nt_ph_laws_motion_5_sol::after {content: '\00a0';display: inline-block; width:320px; height:251px; background-position: 71.54761904761905% 84.62025316455696%;background-size: 625% 729.4820717131474%;background-image: url(physics_ch_4.jpg);padding: 0; }
+div.nt_ph_laws_motion_5_sol::after {max-width:320px; width:100%;height:0;padding: 0 0 78.4375% 0;}
 .nt_ph_laws_motion_6 {max-width:195px; max-height:323px; }
-.nt_ph_laws_motion_6::after {content: '\00a0';display: inline-block; width:195px; height:323px; background-position: 27.516778523489933% 76.88706846108836%;background-size: 1016.9230769230769% 629.1021671826626%;background-image: url(physics_ch_4.jpg);padding: 0; }
+.nt_ph_laws_motion_6::after {content: '\00a0';display: inline-block; width:195px; height:323px; background-position: 99.61218836565097% 0.06631299734748011%;background-size: 1025.6410256410256% 566.8730650154798%;background-image: url(physics_ch_4.jpg);padding: 0; }
 div.nt_ph_laws_motion_6::after {max-width:195px; width:100%;height:0;padding: 0 0 165.64102564102564% 0;}
 .nt_ph_laws_motion_61_sol {max-width:360px; max-height:275px; }
-.nt_ph_laws_motion_61_sol::after {content: '\00a0';display: inline-block; width:360px; height:275px; background-position: 66.78989525569932% 46.55663062037564%;background-size: 550.8333333333334% 738.9090909090909%;background-image: url(physics_ch_4.jpg);padding: 0; }
+.nt_ph_laws_motion_61_sol::after {content: '\00a0';display: inline-block; width:360px; height:275px; background-position: 37.5% 12.596401028277635%;background-size: 555.5555555555555% 665.8181818181819%;background-image: url(physics_ch_4.jpg);padding: 0; }
 div.nt_ph_laws_motion_61_sol::after {max-width:360px; width:100%;height:0;padding: 0 0 76.38888888888889% 0;}
 .nt_ph_laws_motion_66_sol {max-width:360px; max-height:315px; }
-.nt_ph_laws_motion_66_sol::after {content: '\00a0';display: inline-block; width:360px; height:315px; background-position: 0.061614294516327786% 21.49097262667443%;background-size: 550.8333333333334% 645.0793650793651%;background-image: url(physics_ch_4.jpg);padding: 0; }
+.nt_ph_laws_motion_66_sol::after {content: '\00a0';display: inline-block; width:360px; height:315px; background-position: 0.06097560975609756% 0.06596306068601583%;background-size: 555.5555555555555% 581.2698412698413%;background-image: url(physics_ch_4.jpg);padding: 0; }
 div.nt_ph_laws_motion_66_sol::after {max-width:360px; width:100%;height:0;padding: 0 0 87.5% 0;}
-.nt_ph_laws_motion_6_sol_a {max-width:327px; max-height:312px; }
-.nt_ph_laws_motion_6_sol_a::after {content: '\00a0';display: inline-block; width:327px; height:312px; background-position: 41.908212560386474% 54.06976744186046%;background-size: 606.4220183486239% 651.2820512820513%;background-image: url(physics_ch_4.jpg);padding: 0; }
-div.nt_ph_laws_motion_6_sol_a::after {max-width:327px; width:100%;height:0;padding: 0 0 95.41284403669725% 0;}
-.nt_ph_laws_motion_6_sol_b {max-width:400px; max-height:267px; }
-.nt_ph_laws_motion_6_sol_b::after {content: '\00a0';display: inline-block; width:400px; height:267px; background-position: 73.3417561591914% 0.056657223796033995%;background-size: 495.75% 761.0486891385768%;background-image: url(physics_ch_4.jpg);padding: 0; }
-div.nt_ph_laws_motion_6_sol_b::after {max-width:400px; width:100%;height:0;padding: 0 0 66.75% 0;}
+.nt_ph_laws_motion_6_sol_a {max-width:320px; max-height:305px; }
+.nt_ph_laws_motion_6_sol_a::after {content: '\00a0';display: inline-block; width:320px; height:305px; background-position: 27.321428571428573% 43.44692005242464%;background-size: 625% 600.327868852459%;background-image: url(physics_ch_4.jpg);padding: 0; }
+div.nt_ph_laws_motion_6_sol_a::after {max-width:320px; width:100%;height:0;padding: 0 0 95.3125% 0;}
+.nt_ph_laws_motion_6_sol_b {max-width:360px; max-height:240px; }
+.nt_ph_laws_motion_6_sol_b::after {content: '\00a0';display: inline-block; width:360px; height:240px; background-position: 87.6219512195122% 0.06285355122564425%;background-size: 555.5555555555555% 762.9166666666666%;background-image: url(physics_ch_4.jpg);padding: 0; }
+div.nt_ph_laws_motion_6_sol_b::after {max-width:360px; width:100%;height:0;padding: 0 0 66.66666666666667% 0;}
 .nt_ph_laws_motion_8 {max-width:240px; max-height:336px; }
-.nt_ph_laws_motion_8::after {content: '\00a0';display: inline-block; width:240px; height:336px; background-position: 25.989672977624785% 57.6061320754717%;background-size: 826.25% 604.7619047619048%;background-image: url(physics_ch_4.jpg);padding: 0; }
+.nt_ph_laws_motion_8::after {content: '\00a0';display: inline-block; width:240px; height:336px; background-position: 0.056818181818181816% 67.82608695652173%;background-size: 833.3333333333334% 544.9404761904761%;background-image: url(physics_ch_4.jpg);padding: 0; }
 div.nt_ph_laws_motion_8::after {max-width:240px; width:100%;height:0;padding: 0 0 140% 0;}
 .nt_ph_laws_motion_8_sol {max-width:252px; max-height:407px; }
-.nt_ph_laws_motion_8_sol::after {content: '\00a0';display: inline-block; width:252px; height:407px; background-position: 0.057770075101097634% 60.8%;background-size: 786.9047619047619% 499.2628992628993%;background-image: url(physics_ch_4.jpg);padding: 0; }
+.nt_ph_laws_motion_8_sol::after {content: '\00a0';display: inline-block; width:252px; height:407px; background-position: 20.709382151029747% 0.0702247191011236%;background-size: 793.6507936507936% 449.87714987714986%;background-image: url(physics_ch_4.jpg);padding: 0; }
 div.nt_ph_laws_motion_8_sol::after {max-width:252px; width:100%;height:0;padding: 0 0 161.5079365079365% 0;}
 .nt_ph_laws_motion_9_sol {max-width:460px; max-height:194px; }
-.nt_ph_laws_motion_9_sol::after {content: '\00a0';display: inline-block; width:460px; height:194px; background-position: 44.8456992777413% 31.556039173014145%;background-size: 431.0869565217391% 1047.4226804123712%;background-image: url(physics_ch_4.jpg);padding: 0; }
+.nt_ph_laws_motion_9_sol::after {content: '\00a0';display: inline-block; width:460px; height:194px; background-position: 39.935064935064936% 0.06108735491753207%;background-size: 434.7826086956522% 943.8144329896908%;background-image: url(physics_ch_4.jpg);padding: 0; }
 div.nt_ph_laws_motion_9_sol::after {max-width:460px; width:100%;height:0;padding: 0 0 42.17391304347826% 0;}
 
-/* $TexturePacker:SmartUpdate:c8acd1b2c2707a414b91b102b9c3b5a7:801c5b296beaaf9e8d338bc9597c7f6f:64666d8a067ae927ddbd7f1e7d8c8b0f$ */
+/* $TexturePacker:SmartUpdate:06ccaa8900a7908a50cdda4198810ead:050a3285e506df32cf4d851fee897e43:64666d8a067ae927ddbd7f1e7d8c8b0f$ */

diff --git a/img/medical/neet/phchap/physics_ch_5.css b/img/medical/neet/phchap/physics_ch_5.css
@@ -1,0 +1,62 @@
+/*
+-------------------------------------------------------------------
+Created with TexturePacker https://www.codeandweb.com/texturepacker
+-------------------------------------------------------------------
+Inline:     <i class="yourspritesname"></i>
+Responsive: <div class="yourspritesname"></div>
+*/
+
+
+.nt_ph_work_en_pw_16_sol {max-width:172px; max-height:142px; }
+.nt_ph_work_en_pw_16_sol::after {content: '\00a0';display: inline-block; width:172px; height:142px; background-position: 64.16666666666667% 53.57142857142857%;background-size: 588.3720930232558% 356.3380281690141%;background-image: url(physics_ch_5.jpg);padding: 0; }
+div.nt_ph_work_en_pw_16_sol::after {max-width:172px; width:100%;height:0;padding: 0 0 82.55813953488372% 0;}
+.nt_ph_work_en_pw_17_sol {max-width:372px; max-height:197px; }
+.nt_ph_work_en_pw_17_sol::after {content: '\00a0';display: inline-block; width:372px; height:197px; background-position: 0.15625% 0.32362459546925565%;background-size: 272.0430107526882% 256.8527918781726%;background-image: url(physics_ch_5.jpg);padding: 0; }
+div.nt_ph_work_en_pw_17_sol::after {max-width:372px; width:100%;height:0;padding: 0 0 52.956989247311824% 0;}
+.nt_ph_work_en_pw_21_sol {max-width:246px; max-height:192px; }
+.nt_ph_work_en_pw_21_sol::after {content: '\00a0';display: inline-block; width:246px; height:192px; background-position: 0.13054830287206268% 63.37579617834395%;background-size: 411.3821138211382% 263.5416666666667%;background-image: url(physics_ch_5.jpg);padding: 0; }
+div.nt_ph_work_en_pw_21_sol::after {max-width:246px; width:100%;height:0;padding: 0 0 78.04878048780488% 0;}
+.nt_ph_work_en_pw_27_sol {max-width:290px; max-height:153px; }
+.nt_ph_work_en_pw_27_sol::after {content: '\00a0';display: inline-block; width:290px; height:153px; background-position: 34.34903047091413% 56.373937677053824%;background-size: 348.9655172413793% 330.718954248366%;background-image: url(physics_ch_5.jpg);padding: 0; }
+div.nt_ph_work_en_pw_27_sol::after {max-width:290px; width:100%;height:0;padding: 0 0 52.758620689655174% 0;}
+.nt_ph_work_en_pw_31 {max-width:146px; max-height:116px; }
+.nt_ph_work_en_pw_31::after {content: '\00a0';display: inline-block; width:146px; height:116px; background-position: 99.88452655889145% 45.38461538461539%;background-size: 693.1506849315068% 436.2068965517241%;background-image: url(physics_ch_5.jpg);padding: 0; }
+div.nt_ph_work_en_pw_31::after {max-width:146px; width:100%;height:0;padding: 0 0 79.45205479452055% 0;}
+.nt_ph_work_en_pw_31a {max-width:137px; max-height:82px; }
+.nt_ph_work_en_pw_31a::after {content: '\00a0';display: inline-block; width:137px; height:82px; background-position: 92.8% 22.169811320754718%;background-size: 738.6861313868613% 617.0731707317074%;background-image: url(physics_ch_5.jpg);padding: 0; }
+div.nt_ph_work_en_pw_31a::after {max-width:137px; width:100%;height:0;padding: 0 0 59.85401459854015% 0;}
+.nt_ph_work_en_pw_31b {max-width:152px; max-height:81px; }
+.nt_ph_work_en_pw_31b::after {content: '\00a0';display: inline-block; width:152px; height:81px; background-position: 43.48837209302326% 27.529411764705884%;background-size: 665.7894736842105% 624.6913580246913%;background-image: url(physics_ch_5.jpg);padding: 0; }
+div.nt_ph_work_en_pw_31b::after {max-width:152px; width:100%;height:0;padding: 0 0 53.28947368421053% 0;}
+.nt_ph_work_en_pw_31c {max-width:137px; max-height:77px; }
+.nt_ph_work_en_pw_31c::after {content: '\00a0';display: inline-block; width:137px; height:77px; background-position: 60.22857142857143% 27.272727272727273%;background-size: 738.6861313868613% 657.1428571428571%;background-image: url(physics_ch_5.jpg);padding: 0; }
+div.nt_ph_work_en_pw_31c::after {max-width:137px; width:100%;height:0;padding: 0 0 56.2043795620438% 0;}
+.nt_ph_work_en_pw_31d {max-width:146px; max-height:83px; }
+.nt_ph_work_en_pw_31d::after {content: '\00a0';display: inline-block; width:146px; height:83px; background-position: 76.78983833718245% 24.58628841607565%;background-size: 693.1506849315068% 609.6385542168674%;background-image: url(physics_ch_5.jpg);padding: 0; }
+div.nt_ph_work_en_pw_31d::after {max-width:146px; width:100%;height:0;padding: 0 0 56.84931506849315% 0;}
+.nt_ph_work_en_pw_32 {max-width:147px; max-height:117px; }
+.nt_ph_work_en_pw_32::after {content: '\00a0';display: inline-block; width:147px; height:117px; background-position: 86.01156069364161% 86.37532133676092%;background-size: 688.4353741496599% 432.4786324786325%;background-image: url(physics_ch_5.jpg);padding: 0; }
+div.nt_ph_work_en_pw_32::after {max-width:147px; width:100%;height:0;padding: 0 0 79.59183673469387% 0;}
+.nt_ph_work_en_pw_32_sol {max-width:170px; max-height:135px; }
+.nt_ph_work_en_pw_32_sol::after {content: '\00a0';display: inline-block; width:170px; height:135px; background-position: 68.05225653206651% 91.10512129380054%;background-size: 595.2941176470588% 374.81481481481484%;background-image: url(physics_ch_5.jpg);padding: 0; }
+div.nt_ph_work_en_pw_32_sol::after {max-width:170px; width:100%;height:0;padding: 0 0 79.41176470588235% 0;}
+.nt_ph_work_en_pw_33_sol {max-width:262px; max-height:115px; }
+.nt_ph_work_en_pw_33_sol::after {content: '\00a0';display: inline-block; width:262px; height:115px; background-position: 49.86666666666667% 0.2557544757033248%;background-size: 386.25954198473283% 440%;background-image: url(physics_ch_5.jpg);padding: 0; }
+div.nt_ph_work_en_pw_33_sol::after {max-width:262px; width:100%;height:0;padding: 0 0 43.89312977099237% 0;}
+.nt_ph_work_en_pw_39_sol {max-width:277px; max-height:131px; }
+.nt_ph_work_en_pw_39_sol::after {content: '\00a0';display: inline-block; width:277px; height:131px; background-position: 40.136054421768705% 94.13333333333334%;background-size: 365.3429602888087% 386.25954198473283%;background-image: url(physics_ch_5.jpg);padding: 0; }
+div.nt_ph_work_en_pw_39_sol::after {max-width:277px; width:100%;height:0;padding: 0 0 47.292418772563174% 0;}
+.nt_ph_work_en_pw_4_sol {max-width:152px; max-height:147px; }
+.nt_ph_work_en_pw_4_sol::after {content: '\00a0';display: inline-block; width:152px; height:147px; background-position: 82.79069767441861% 52.36768802228412%;background-size: 665.7894736842105% 344.21768707482994%;background-image: url(physics_ch_5.jpg);padding: 0; }
+div.nt_ph_work_en_pw_4_sol::after {max-width:152px; width:100%;height:0;padding: 0 0 96.71052631578948% 0;}
+.nt_ph_work_en_pw_6 {max-width:156px; max-height:102px; }
+.nt_ph_work_en_pw_6::after {content: '\00a0';display: inline-block; width:156px; height:102px; background-position: 74.41588785046729% 0.24752475247524752%;background-size: 648.7179487179487% 496.078431372549%;background-image: url(physics_ch_5.jpg);padding: 0; }
+div.nt_ph_work_en_pw_6::after {max-width:156px; width:100%;height:0;padding: 0 0 65.38461538461539% 0;}
+.nt_ph_work_en_pw_6_sol {max-width:172px; max-height:92px; }
+.nt_ph_work_en_pw_6_sol::after {content: '\00a0';display: inline-block; width:172px; height:92px; background-position: 94.52380952380952% 0.24154589371980675%;background-size: 588.3720930232558% 550%;background-image: url(physics_ch_5.jpg);padding: 0; }
+div.nt_ph_work_en_pw_6_sol::after {max-width:172px; width:100%;height:0;padding: 0 0 53.48837209302326% 0;}
+.nt_ph_work_en_pw_8_sol {max-width:293px; max-height:113px; }
+.nt_ph_work_en_pw_8_sol::after {content: '\00a0';display: inline-block; width:293px; height:113px; background-position: 0.13908205841446453% 99.74554707379134%;background-size: 345.3924914675768% 447.78761061946904%;background-image: url(physics_ch_5.jpg);padding: 0; }
+div.nt_ph_work_en_pw_8_sol::after {max-width:293px; width:100%;height:0;padding: 0 0 38.56655290102389% 0;}
+
+/* $TexturePacker:SmartUpdate:0deb5fcffdad82f25c4925366be423c8:3059c829f59c63eb5b343acba7497ade:f76d2c765f2f21c6a0c454ae011f6e30$ */
